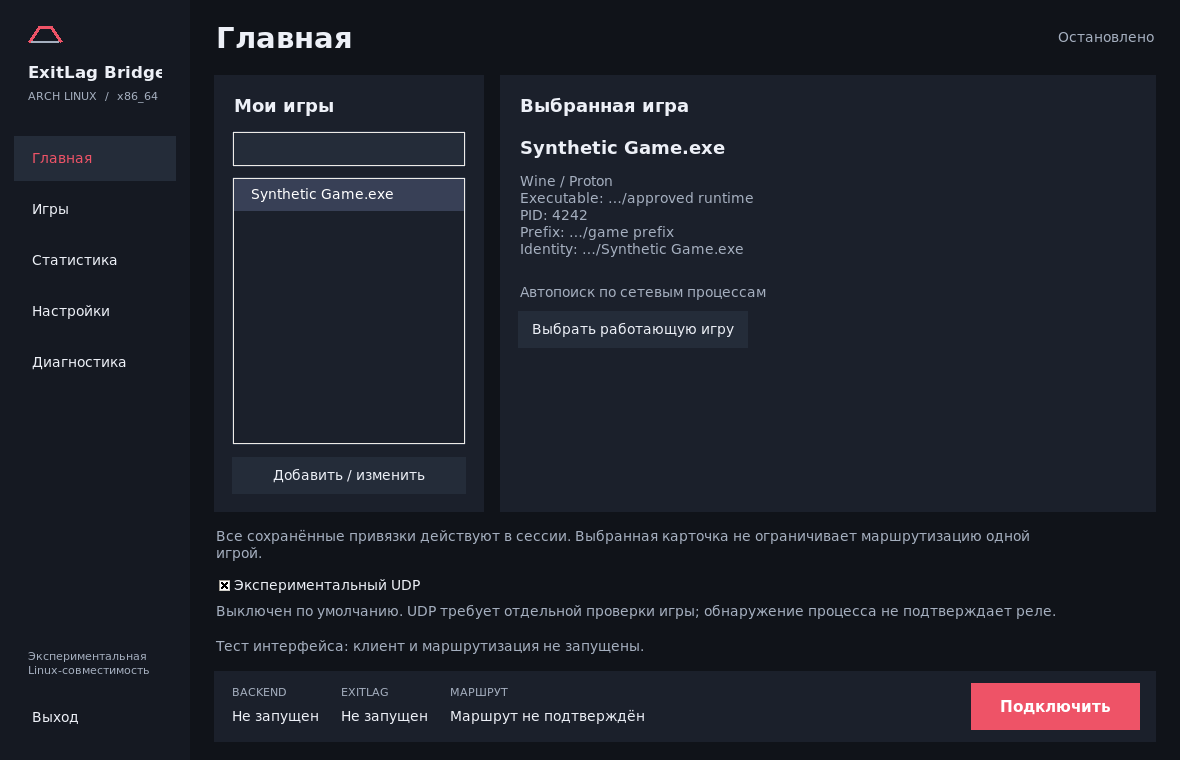
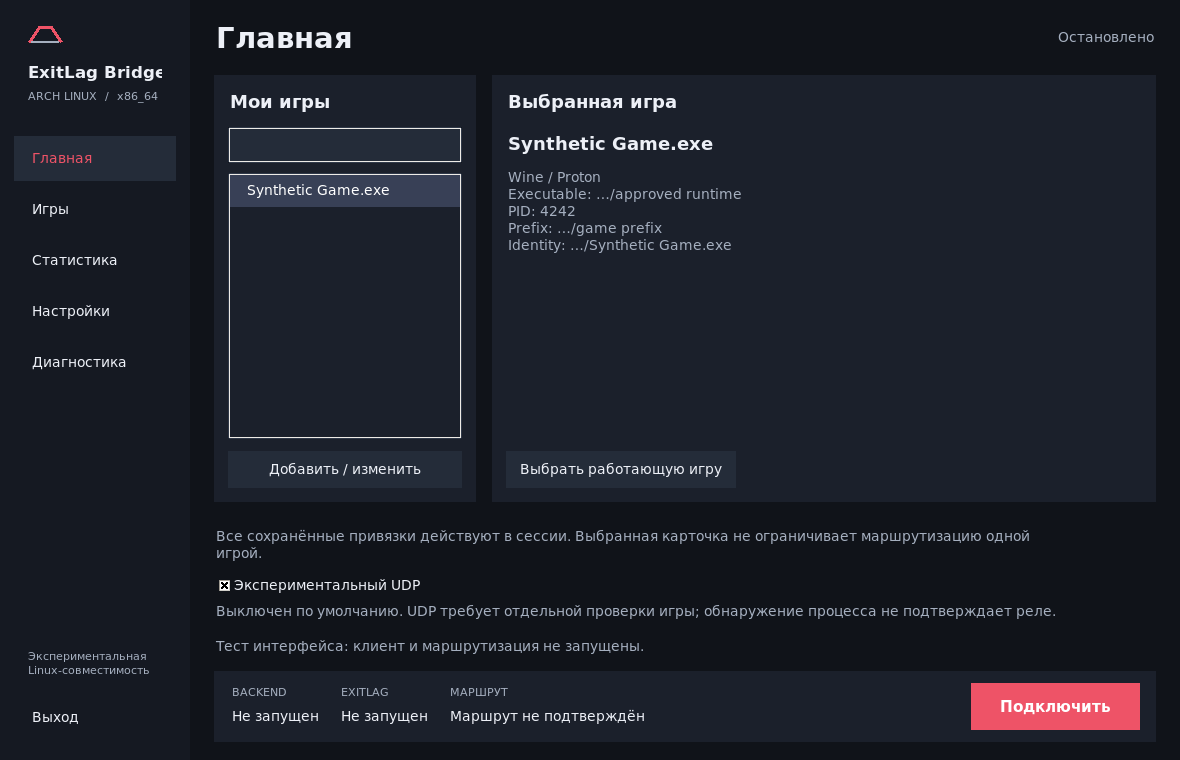
Keep desktop controls visible at minimum size and record UI evidence

diff --git a/installers/linux/desktop_ui.py b/installers/linux/desktop_ui.py
@@ -92,25 +92,28 @@ def build(d):
     d.page_names = dict(names)
 
     home = d.pages['home']
+    home_options = ttk.Frame(home); home_options.pack(side='bottom', fill='x', pady=(10, 0))
     columns = ttk.Frame(home); columns.pack(fill='both', expand=True)
     saved = card(columns, 'Мои игры'); saved.pack(side='left', fill='both', padx=(0, 16))
+    saved.configure(padding=14)
+    d.manage_button = ttk.Button(saved, text='Добавить / изменить', command=d.games); d.manage_button.pack(side='bottom', fill='x', pady=(12, 0))
     ttk.Entry(saved, textvariable=d.saved_query, width=24).pack(fill='x', pady=(0, 10))
     d.game_list = ttk.Treeview(saved, show='tree', selectmode='browse', height=7)
     d.game_list.column('#0', width=200, minwidth=130); d.game_list.pack(fill='both', expand=True)
     d.game_list.bind('<<TreeviewSelect>>', d.select_game)
-    d.manage_button = ttk.Button(saved, text='Добавить / изменить', command=d.games); d.manage_button.pack(fill='x', pady=(12, 0))
     details = card(columns, 'Выбранная игра'); details.pack(side='left', fill='both', expand=True)
+    details.configure(padding=14)
+    ttk.Button(details, text='Выбрать работающую игру', command=lambda: d.show_page('games')).pack(side='bottom', anchor='w', pady=(10, 0))
     ttk.Label(details, textvariable=d.selected_game, style='CardHeading.TLabel', wraplength=440).pack(anchor='w', pady=(4, 10))
     ttk.Label(details, textvariable=d.selected_details, style='CardMuted.TLabel', wraplength=440, justify='left').pack(anchor='w')
-    ttk.Label(details, text='Автопоиск по сетевым процессам', style='CardMuted.TLabel').pack(anchor='w', pady=(22, 8))
-    ttk.Button(details, text='Выбрать работающую игру', command=lambda: d.show_page('games')).pack(anchor='w')
-    ttk.Label(home, text='Все сохранённые привязки действуют в сессии. Выбранная карточка не ограничивает маршрутизацию одной игрой.', style='Muted.TLabel', wraplength=850).pack(anchor='w', pady=(14, 8))
-    d.udp_toggle = ttk.Checkbutton(home, text='Экспериментальный UDP', variable=d.udp_enabled, command=d._sync_controls)
+    ttk.Label(home_options, text='Все сохранённые привязки действуют в сессии. Выбранная карточка не ограничивает маршрутизацию одной игрой.', style='Muted.TLabel', wraplength=850).pack(anchor='w', pady=(14, 8))
+    d.udp_toggle = ttk.Checkbutton(home_options, text='Экспериментальный UDP', variable=d.udp_enabled, command=d._sync_controls)
     d.udp_toggle.pack(anchor='w')
-    ttk.Label(home, text='Выключен по умолчанию. UDP требует отдельной проверки игры; обнаружение процесса не подтверждает реле.', style='Muted.TLabel', wraplength=850).pack(anchor='w', pady=(2, 8))
-    ttk.Label(home, textvariable=d.message, style='Muted.TLabel', wraplength=850).pack(anchor='w', pady=(6, 0))
+    ttk.Label(home_options, text='Выключен по умолчанию. UDP требует отдельной проверки игры; обнаружение процесса не подтверждает реле.', style='Muted.TLabel', wraplength=850).pack(anchor='w', pady=(2, 8))
+    ttk.Label(home_options, textvariable=d.message, style='Muted.TLabel', wraplength=850).pack(anchor='w', pady=(6, 0))
 
     games = d.pages['games']
+    process_details = ttk.Frame(games); process_details.pack(side='bottom', fill='x')
     ttk.Label(games, text='Сетевые процессы вашего пользователя. Имя и AppID помогают найти игру; привязка проверяется перед сохранением.', style='Muted.TLabel', wraplength=850).pack(anchor='w', pady=(0, 12))
     toolbar = ttk.Frame(games); toolbar.pack(fill='x', pady=(0, 10))
     ttk.Label(toolbar, text='Название / Steam AppID').pack(side='left', padx=(0, 10))
@@ -125,12 +128,12 @@ def build(d):
     d.process_tree.configure(yscrollcommand=scroll.set)
     scroll.pack(side='right', fill='y'); d.process_tree.pack(side='left', fill='both', expand=True)
     d.process_tree.bind('<<TreeviewSelect>>', d.select_process)
-    ttk.Label(games, textvariable=d.process_details, wraplength=850, justify='left').pack(anchor='w', pady=5)
-    ttk.Label(games, textvariable=d.process_warning, foreground='#f4be77', wraplength=850).pack(anchor='w', pady=3)
-    actions = ttk.Frame(games); actions.pack(fill='x', pady=(8, 0))
+    ttk.Label(process_details, textvariable=d.process_details, wraplength=850, justify='left').pack(anchor='w', pady=5)
+    ttk.Label(process_details, textvariable=d.process_warning, foreground='#f4be77', wraplength=850).pack(anchor='w', pady=3)
+    actions = ttk.Frame(process_details); actions.pack(fill='x', pady=(8, 0))
     d.add_process_button = ttk.Button(actions, text='Добавить выбранный процесс', command=d.add_selected_process, state='disabled'); d.add_process_button.pack(side='left')
     ttk.Button(actions, text='Редактировать / удалить привязки', command=d.games).pack(side='left', padx=10)
-    ttk.Label(games, textvariable=d.scan_status, style='Muted.TLabel').pack(anchor='w', pady=8)
+    ttk.Label(process_details, textvariable=d.scan_status, style='Muted.TLabel').pack(anchor='w', pady=8)
 
     stats = d.pages['statistics']
     actual = card(stats, 'Состояние текущей сессии'); actual.pack(fill='x', pady=(0, 16))

diff --git a/tests/gui-picker-smoke.py b/tests/gui-picker-smoke.py
@@ -430,7 +430,7 @@ class RealTkPicker(unittest.TestCase):
 
     def test_all_navigation_pages_keep_primary_connection_control_and_honest_metrics(self):
         desktop = self.dashboard()
-        desktop.window.geometry('1040x680+20+20')
+        desktop.window.geometry('1040x640+20+20')
         self.root.update()
         self.assertEqual(set(desktop.nav_buttons), {'home', 'games', 'statistics', 'setup', 'diagnostics'})
         self.assertEqual(desktop.primary_button, desktop.launch_button)
@@ -439,6 +439,11 @@ class RealTkPicker(unittest.TestCase):
                 button.invoke(); self.root.update()
                 self.assertTrue(desktop.pages[name].winfo_viewable(), name)
                 self.assertTrue(desktop.primary_button.winfo_viewable(), name)
+                if name == 'home':
+                    self.assertTrue(desktop.udp_toggle.winfo_viewable())
+                    self.assertTrue(desktop.manage_button.winfo_viewable())
+                if name == 'games':
+                    self.assertTrue(desktop.add_process_button.winfo_viewable())
                 self.assertGreaterEqual(desktop.primary_button.winfo_rootx(), desktop.window.winfo_rootx())
                 self.assertLessEqual(desktop.primary_button.winfo_rootx() + desktop.primary_button.winfo_width(),
                                      desktop.window.winfo_rootx() + desktop.window.winfo_width())
